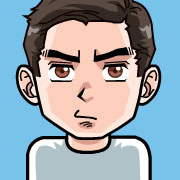
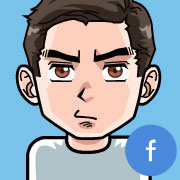
Added social stuff to home screen

Changed region(s): [[0.6944, 0.6944, 1.0, 1.0]]

diff --git a/mobile/index.html b/mobile/index.html
@@ -49,6 +49,11 @@
                     <p>#hiv #aids #africa</p>
                 </div>
             </div>
+            <span style="position:relative;bottom:25px;left:-25px;">
+                <img src="img/photos/venkman.jpg" width="30px" class="circle" style="position:relative;left:25px;">
+                <img src="img/photos/spengler.jpg" width="30px" class="circle">
+                <span style="position:relative;bottom:10px;font-size:.7em;">+25 more</span>
+            </span>
             <span style="position:relative;bottom:15px;float:right;">Today</span>
         </a>
     </div>

diff --git a/mobile/css/custom.css b/mobile/css/custom.css
@@ -44,6 +44,15 @@ a:hover {
     width: 100%;
 }
 
+img.circle {
+    border-radius: 150px;
+    -webkit-border-radius: 150px;
+    -moz-border-radius: 150px;
+    box-shadow: 0 0 8px rgba(0, 0, 0, .8);
+    -webkit-box-shadow: 0 0 8px rgba(0, 0, 0, .8);
+    -moz-box-shadow: 0 0 8px rgba(0, 0, 0, .8);
+}
+
 .bar--header {
     position: fixed;
     top: 0;
